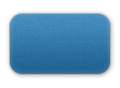
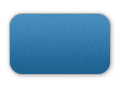
微调"完成"按钮。

Changed region(s): [[0.1, 0.7727, 0.9, 0.8409]]

diff --git a/WeTongji/Classes/ChannelViewController.m b/WeTongji/Classes/ChannelViewController.m
@@ -33,9 +33,9 @@
     [button setBackgroundImage:[UIImage imageNamed:@"nav_bar_btn_finish.png"] forState:UIControlStateNormal];
     [button setBackgroundImage:[UIImage imageNamed:@"nav_bar_btn_finish_hl.png"] forState:UIControlStateHighlighted];
     [button setTitle:@"完成" forState:UIControlStateNormal];
-    [button setTitleColor:[UIColor whiteColor] forState:UIControlStateNormal];
-    [button setTitleColor:[UIColor colorWithRed:1 green:1 blue:1 alpha:0.9f] forState:UIControlStateHighlighted];
-    [button setTitleShadowColor:[UIColor blackColor] forState:UIControlStateNormal];
+    [button setTitleColor:[UIColor colorWithRed:0.95f green:0.95f blue:0.95f alpha:1] forState:UIControlStateNormal];
+    [button setTitleColor:[UIColor colorWithRed:0.95f green:0.95f blue:0.95f alpha:0.8f] forState:UIControlStateHighlighted];
+    [button setTitleShadowColor:[UIColor darkGrayColor] forState:UIControlStateNormal];
     button.titleLabel.font = [UIFont boldSystemFontOfSize:13];
     button.titleLabel.shadowOffset = CGSizeMake(0, 1);
     [button addTarget:self action:@selector(didClickFinishButton) forControlEvents:UIControlEventTouchUpInside];
